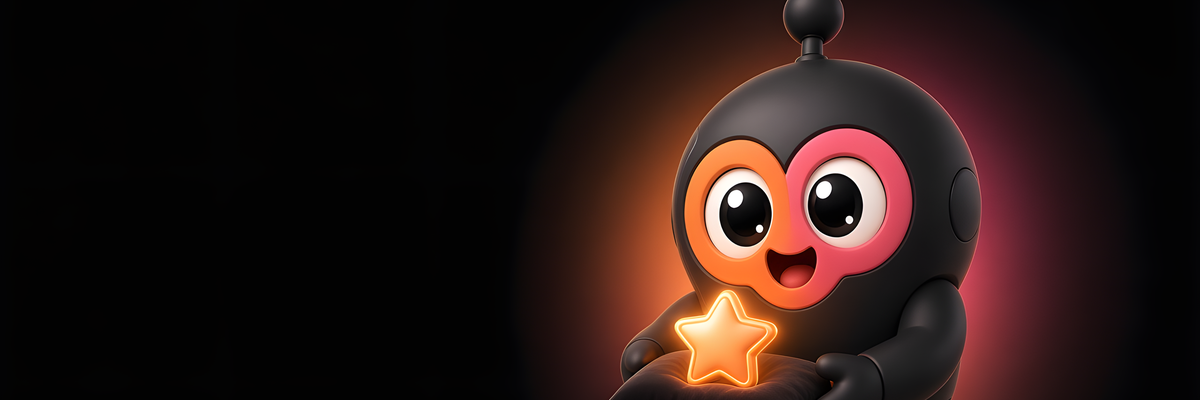
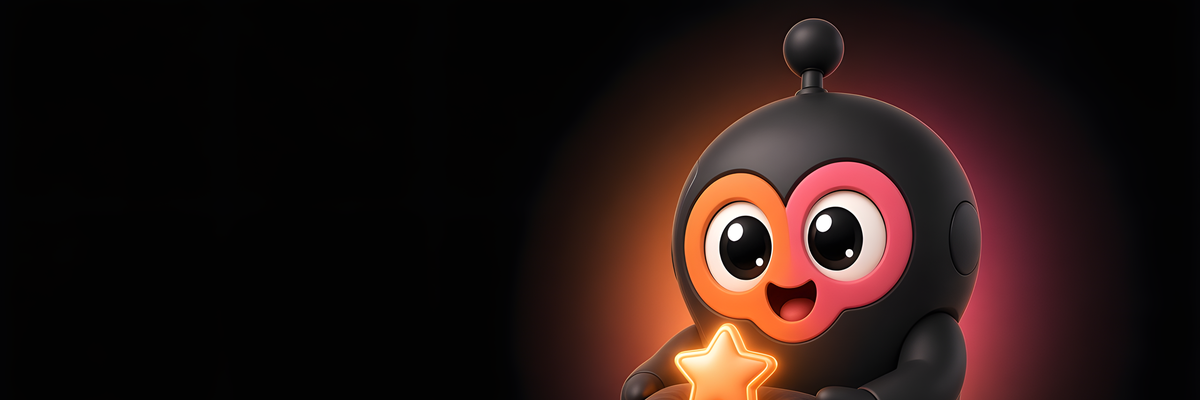
Align the brand lockup and refresh the email headers (#218)
* Align the brand lockup to the icon.

The wordmark cap sits on the icon’s top and the tagline baseline sits on its bottom. Narrow slots hide the tagline and centre the wordmark. Header, sidebar, footer and email use the same lockup.

* Replace the email header images.

Same sixteen names, still 1200 by 400. The antenna stays in frame, the community listing wears a mitten, and the trust header has no grid.

---------

Changed region(s): [[0.4933, 0.0, 0.8325, 1.0]]

diff --git a/components/vibepeep-logo.tsx b/components/vibepeep-logo.tsx
@@ -23,46 +23,47 @@ function WordImg({ src, className, decorative }: { src: string; className: strin
 }
 
 /** Wordmark. Light surfaces keep black Vibe; dark surfaces use white Vibe. No plate behind it. */
-export function VibePeepWordmark({ className = 'h-7 w-auto', tone = 'auto', decorative = false }: { className?: string; tone?: Tone; decorative?: boolean }) {
-  if (tone === 'on-dark') return <WordImg src={WORDMARK_SVG_DARK} className={className} decorative={decorative} />
-  if (tone === 'on-light') return <WordImg src={WORDMARK_SVG} className={className} decorative={decorative} />
+export function VibePeepWordmark({ className = '', tone = 'auto', decorative = false }: { className?: string; tone?: Tone; decorative?: boolean }) {
+  const plate = (src: string, extra = '') => (
+    <WordImg src={src} className={`h-full w-auto ${extra}`} decorative={decorative} />
+  )
+  if (tone === 'on-dark') return <span className={className}>{plate(WORDMARK_SVG_DARK)}</span>
+  if (tone === 'on-light') return <span className={className}>{plate(WORDMARK_SVG)}</span>
   return (
-    <span className="inline-flex items-center">
-      <WordImg src={WORDMARK_SVG} className={`${className} dark:hidden`} decorative={decorative} />
-      <WordImg src={WORDMARK_SVG_DARK} className={`${className} hidden dark:inline`} decorative={decorative} />
+    <span className={className}>
+      {plate(WORDMARK_SVG, 'dark:hidden')}
+      {plate(WORDMARK_SVG_DARK, 'hidden dark:block')}
     </span>
   )
 }
 
-const SIZES = {
-  sm: { mark: 'w-8 h-8', word: 'h-[22px] w-auto', tag: 'text-xs' },
-  md: { mark: 'w-10 h-10', word: 'h-7 w-auto', tag: 'text-xs' },
-  lg: { mark: 'w-11 h-11', word: 'h-8 w-auto', tag: 'text-xs' },
-} as const
+const MARK = { sm: '2rem', md: '2.5rem', lg: '2.75rem' } as const
 
-/** Brand lockup: icon, wordmark, and the tagline. */
+/**
+ * Icon plus wordmark and tagline. The text block is exactly the icon’s height:
+ * the wordmark’s cap top meets the icon’s top, and the tagline’s baseline meets its bottom.
+ * Narrow slots drop the tagline and centre the wordmark on the icon.
+ */
 export function VibePeepLogo({
   size = 'md',
   className = '',
-  labelClassName = 'flex',
   showTagline = true,
   tone = 'auto',
 }: {
-  size?: keyof typeof SIZES
+  size?: keyof typeof MARK
   className?: string
   labelClassName?: string
   showTagline?: boolean
   tone?: Tone
 }) {
-  const s = SIZES[size]
   return (
-    <span className={`inline-flex items-center gap-2.5 ${className}`} role="img" aria-label={showTagline ? `VibePeep. ${BRAND_TAGLINE}` : 'VibePeep'}>
-      <VibePeepMark className={s.mark} decorative />
-      <span className={`${labelClassName} min-w-0 flex-col leading-none text-left`} aria-hidden>
-        <VibePeepWordmark className={s.word} decorative tone={tone} />
-        {showTagline && (
-          <span className={`vp-lockup-tag mt-1 max-w-[15rem] font-medium leading-tight text-muted-foreground ${s.tag}`}>{BRAND_TAGLINE}</span>
-        )}
+    <span className={`vp-lockup-slot ${className}`}>
+      <span className={`vp-lockup${showTagline ? '' : ' is-compact'}`} style={{ fontSize: MARK[size] }} role="img" aria-label={showTagline ? `VibePeep. ${BRAND_TAGLINE}` : 'VibePeep'}>
+        <VibePeepMark className="vp-lockup-mark" decorative />
+        <span className="vp-lockup-copy" aria-hidden>
+          <VibePeepWordmark className="vp-lockup-word" decorative tone={tone} />
+          {showTagline && <span className="vp-lockup-tag">{BRAND_TAGLINE}</span>}
+        </span>
       </span>
     </span>
   )

diff --git a/lib/email-brand.ts b/lib/email-brand.ts
@@ -1,6 +1,6 @@
 import { existsSync } from 'fs'
 import path from 'path'
-import { BRAND_DEEP, BRAND_MASCOT_EMAIL, BRAND_MASCOT_EMAIL_HEIGHT, BRAND_MASCOT_EMAIL_WIDTH, BRAND_ORANGE, BRAND_PINK, BRAND_TAGLINE, BRAND_WORDMARK_DARK_SRC, BRAND_WORDMARK_HEIGHT, BRAND_WORDMARK_SRC, BRAND_WORDMARK_WIDTH } from '@/lib/brand'
+import { BRAND_DEEP, BRAND_ICON_512, BRAND_ORANGE, BRAND_PINK, BRAND_TAGLINE, BRAND_WORDMARK_DARK_SRC, BRAND_WORDMARK_HEIGHT, BRAND_WORDMARK_SRC, BRAND_WORDMARK_WIDTH } from '@/lib/brand'
 import { CLAIMED_TICK_COPY } from '@/lib/ownership'
 import { CANONICAL_SITE_URL } from '@/lib/site-url'
 
@@ -40,14 +40,16 @@ export const EMAIL_C = {
   darkPriceInk: '#ffb08a',
 } as const
 
-const MASCOT_W = 88
-const MASCOT_H = Math.round((MASCOT_W * BRAND_MASCOT_EMAIL_HEIGHT) / BRAND_MASCOT_EMAIL_WIDTH)
-const WORD_H = 40
-const WORD_W = Math.round((WORD_H * BRAND_WORDMARK_WIDTH) / BRAND_WORDMARK_HEIGHT)
+/** Same geometry as .vp-lockup: icon 40px, wordmark cap top flush, tagline baseline on the bottom. */
+const MARK = 40
+const CAP = MARK * 0.56
+const WORD_H = Math.round(CAP * (1974 / 1440))
+const WORD_W = Math.round(WORD_H * (BRAND_WORDMARK_WIDTH / BRAND_WORDMARK_HEIGHT))
+const WORD_TOP = Math.round(CAP * (42 / 1440))
 const TICK_W = 16
 const TICK_H = 16
 
-export const EMAIL_MASCOT_DISPLAY = { width: MASCOT_W, height: MASCOT_H }
+export const EMAIL_MASCOT_DISPLAY = { width: MARK, height: MARK }
 export const EMAIL_WORDMARK_DISPLAY = { width: WORD_W, height: WORD_H }
 
 const T = 'role="presentation" cellpadding="0" cellspacing="0" border="0"'
@@ -68,16 +70,18 @@ function img(src: string, alt: string, w: number, h: number): string {
   return `<img src="${url}" alt="${label}" width="${w}" height="${h}" style="display:block;width:${w}px;height:${h}px;border:0;outline:none;text-decoration:none;-ms-interpolation-mode:bicubic;"/>`
 }
 
-/** Mascot plus the wordmark and tagline. One of each. No icon, no second wordmark, no text logo. */
+/** Icon, wordmark and tagline. Same edges as the site lockup. PNGs only. */
 export function emailLockup(opts: { dark?: boolean } = {}): string {
   const wordSrc = emailAssetUrl(opts.dark ? BRAND_WORDMARK_DARK_SRC : BRAND_WORDMARK_SRC)
-  const mascotSrc = emailAssetUrl(BRAND_MASCOT_EMAIL)
+  const iconSrc = emailAssetUrl(BRAND_ICON_512.split('?')[0])
   const tagline = opts.dark ? EMAIL_C.onDarkMuted : '#6b6b6b'
   return `<table ${T}><tr>
-<td style="padding-right:14px;vertical-align:middle;line-height:0;font-size:0;">${img(mascotSrc, 'VibePeep mascot', MASCOT_W, MASCOT_H)}</td>
-<td style="vertical-align:middle;">
-${img(wordSrc, 'VibePeep', WORD_W, WORD_H)}
-<div style="font-family:${EMAIL_FONT};font-size:13px;line-height:1.35;color:${tagline};padding-top:6px;">${emailEscape(BRAND_TAGLINE)}</div>
+<td width="${MARK}" style="width:${MARK}px;padding-right:9px;vertical-align:top;line-height:0;font-size:0;">${img(iconSrc, 'VibePeep', MARK, MARK)}</td>
+<td style="vertical-align:top;">
+<div style="height:${MARK}px;">
+<img src="${emailEscape(wordSrc)}" alt="VibePeep" width="${WORD_W}" height="${WORD_H}" style="display:block;width:${WORD_W}px;height:${WORD_H}px;border:0;margin-top:-${WORD_TOP}px;"/>
+<div style="font-family:${EMAIL_FONT};font-size:12px;line-height:12px;color:${tagline};margin-top:2px;">${emailEscape(BRAND_TAGLINE)}</div>
+</div>
 </td>
 </tr></table>`
 }

diff --git a/app/globals.css b/app/globals.css
@@ -355,44 +355,96 @@ a[class*="w-9"] {
   min-height: 44px;
 }
 
-/* Shared header lockup: icon, wordmark, grey tagline underneath.
-   Wide bars keep the map-page sizes (40px mark, 28px wordmark, 11px tagline).
-   Narrow bars scale the type so the tagline stays one line under the wordmark. */
+/* Shared lockup. 1em is the icon. Cap height is 0.56em of the wordmark artwork. */
 .vp-header-bar {
   container-type: inline-size;
   container-name: vpheader;
 }
 
-.vp-header-lockup {
-  gap: clamp(0.35rem, 2cqi, 0.625rem);
+.vp-lockup-slot {
+  container-type: inline-size;
+  display: inline-flex;
   max-width: 100%;
-}
-
-.vp-header-lockup > img {
-  width: clamp(1.75rem, 10cqi, 2.5rem);
-  height: clamp(1.75rem, 10cqi, 2.5rem);
-}
-
-.vp-header-lockup [aria-hidden] {
   min-width: 0;
 }
 
-.vp-header-lockup [aria-hidden] img {
-  height: clamp(0.95rem, 6.2cqi, 1.75rem);
+.vp-lockup {
+  display: inline-flex;
+  align-items: flex-start;
+  gap: 0.22em;
+  height: 1em;
+  line-height: 1;
+  max-width: 100%;
+}
+
+.vp-header-lockup { font-size: clamp(2rem, 8cqi, 2.5rem); }
+
+.vp-lockup-mark {
+  width: 1em;
+  height: 1em;
+  display: block;
+}
+
+.vp-lockup-copy {
+  position: relative;
+  height: 1em;
+  min-width: 0;
+}
+
+.vp-lockup-word {
+  position: absolute;
+  left: 0;
+  top: calc(42 / 1440 * -0.56em);
+  height: calc(1974 / 1440 * 0.56em);
+  width: auto;
+  max-width: none;
+}
+
+.vp-lockup-word img {
+  display: block;
+  height: 100%;
   width: auto;
 }
 
-@media (max-width: 1279px) {
-  .vp-header-lockup .vp-lockup-tag { display: none; }
+.vp-lockup-tag {
+  position: absolute;
+  left: 0;
+  bottom: 0;
+  margin: 0;
+  font-size: 0.3em;
+  font-weight: 500;
+  line-height: 1;
+  letter-spacing: -0.01em;
+  white-space: nowrap;
+  color: hsl(var(--muted-foreground));
+  transform: translateY(0.22em);
 }
 
-.vp-header-lockup .vp-lockup-tag {
-  margin-top: clamp(0.15rem, 0.6cqi, 0.25rem);
-  max-width: none;
-  font-size: clamp(0.4rem, calc((100cqi - 6.25rem) / 18), 0.6875rem);
-  line-height: 1.15;
-  letter-spacing: -0.02em;
-  white-space: nowrap;
+.vp-lockup.is-compact .vp-lockup-tag { display: none; }
+
+.vp-lockup.is-compact .vp-lockup-word,
+.vp-lockup-slot.is-narrow .vp-lockup-word {
+  top: 50%;
+  height: calc(1974 / 1920 * 0.72em);
+  transform: translateY(-50%);
+}
+
+@media (max-width: 1279px) {
+  .vp-lockup-tag { display: none; }
+  .vp-lockup-word {
+    top: 50%;
+    height: calc(1974 / 1920 * 0.72em);
+    transform: translateY(-50%);
+  }
+}
+
+@container (max-width: 18rem) {
+  .vp-lockup-tag { display: none; }
+  .vp-lockup-word {
+    top: 50%;
+    height: calc(1974 / 1920 * 0.72em);
+    transform: translateY(-50%);
+  }
 }
 
 @container vpheader (max-width: 17.5rem) {

diff --git a/lib/watch-shared.test.ts b/lib/watch-shared.test.ts
@@ -19,11 +19,11 @@ function row(over: Partial<WatchRow> & { id: string; title: string; date: string
   }
 }
 
-test('the lockup is one mascot and one wordmark, both PNG on the production host', () => {
+test('the lockup is one icon and one wordmark, both PNG on the production host', () => {
   const html = emailLockup({ dark: true })
   const imgs = [...html.matchAll(/<img\b[^>]*>/g)].map((match) => match[0])
   assert.equal(imgs.length, 2)
-  assert.equal(imgs.filter((tag) => tag.includes('vibepeep-mascot-email.png')).length, 1)
+  assert.equal(imgs.filter((tag) => tag.includes('icon-512.png')).length, 1)
   assert.equal(imgs.filter((tag) => tag.includes('vibepeep-wordmark-ondark.png')).length, 1)
   assert.equal(html.includes('icon-192'), false)
   assert.equal(html.includes('.svg'), false)
@@ -103,7 +103,8 @@ test('an empty digest is not sent, and an empty section is left out', () => {
   assert.equal(mail.html.includes('.svg'), false)
   assert.equal(mail.html.includes('.webp'), false)
   const imgs = [...mail.html.matchAll(/<img\b[^>]*>/g)].map((match) => match[0])
-  assert.equal(imgs.filter((tag) => tag.includes('vibepeep-mascot')).length, 1)
+  assert.equal(imgs.filter((tag) => tag.includes('icon-512.png')).length, 1)
+  assert.equal(imgs.filter((tag) => tag.includes('vibepeep-mascot')).length, 0)
   assert.equal(imgs.filter((tag) => tag.includes('icon-192')).length, 0)
   for (const tag of imgs) {
     assert.match(/src="([^"]+)"/.exec(tag)?.[1] ?? '', /^https:\/\/outza-outza\.vercel\.app\//)

diff --git a/components/promoter-shell.tsx b/components/promoter-shell.tsx
@@ -4,7 +4,7 @@ import { useEffect, useState } from 'react'
 import Link from 'next/link'
 import { usePathname } from 'next/navigation'
 import { BarChart3, Brain, CalendarDays, LayoutDashboard, Megaphone, Menu, Receipt, Rocket, Store } from 'lucide-react'
-import { VibePeepWordmark } from '@/components/vibepeep-logo'
+import { VibePeepLogo } from '@/components/vibepeep-logo'
 import { Sheet, SheetContent, SheetDescription, SheetHeader, SheetTitle } from '@/components/ui/sheet'
 import { PROMOTER_NAV_EVENT } from '@/lib/promoter-nav'
 import { cn } from '@/lib/utils'
@@ -101,8 +101,8 @@ export function PromoterAppShell({ children, backHref, backLabel = 'My events' }
       <div className="lg:grid lg:grid-cols-[240px_minmax(0,1fr)]">
         <aside className="sticky top-0 hidden h-screen w-[240px] flex-col bg-[#151A19] text-white print:hidden lg:flex">
           <div className="vp-page-top px-4 pb-2">
-            <Link href="/promoter?tab=overview" onClick={(event) => onPromoterClick(event, '/promoter?tab=overview')} aria-label="Promoter dashboard">
-              <VibePeepWordmark tone="on-dark" className="h-6 w-auto" />
+            <Link href="/promoter?tab=overview" onClick={(event) => onPromoterClick(event, '/promoter?tab=overview')} aria-label="Promoter dashboard" className="block w-full">
+              <VibePeepLogo size="sm" tone="on-dark" className="w-full" />
             </Link>
             <p className="mt-2 text-xs text-white/60">Promoter</p>
           </div>

diff --git a/lib/newsletter/render.test.ts b/lib/newsletter/render.test.ts
@@ -107,8 +107,8 @@ test('the digest html is personal, table-based, and Gmail-safe', () => {
   assert.match(html, /Manage preferences/)
   assert.match(html, /Unsubscribe/)
   assert.match(html, /vibepeep-wordmark-ondark\.png/)
-  assert.match(html, /vibepeep-mascot-email\.png/)
-  assert.match(html, /alt="VibePeep mascot"/)
+  assert.match(html, /icon-512\.png/)
+  assert.match(html, /alt="VibePeep"/)
   assert.match(html, /Cheap laughs/)
   assert.match(html, /Arts &amp; Culture/)
   assert.match(html, /background-size:cover/)
@@ -121,7 +121,7 @@ test('the digest html is personal, table-based, and Gmail-safe', () => {
   assert.equal(/confidence/i.test(html), false)
   const imgs = [...html.matchAll(/<img\b[^>]*>/g)].map((m) => m[0])
   assert.ok(imgs.length >= 4)
-  assert.equal(imgs.filter((tag) => tag.includes('vibepeep-mascot')).length, 1)
+  assert.equal(imgs.filter((tag) => tag.includes('icon-512.png')).length, 1)
   const thumbs = [...html.matchAll(/class="thumbimg"[^>]*width="(\d+)" height="(\d+)"/g)]
   assert.equal(thumbs.length, 2)
   for (const thumb of thumbs) assert.equal(`${thumb[1]}x${thumb[2]}`, '104x104')
